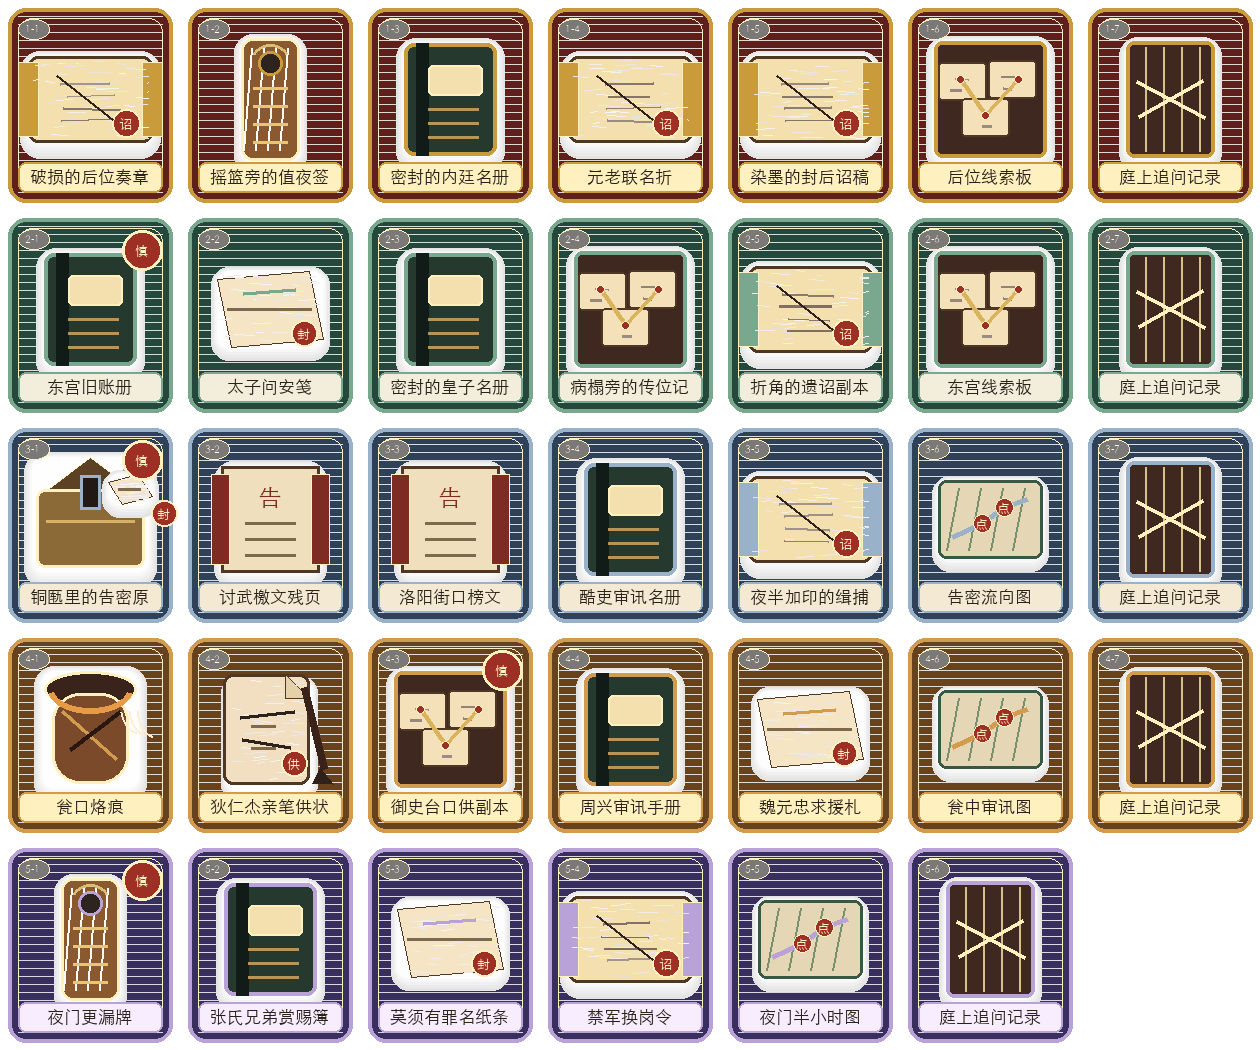
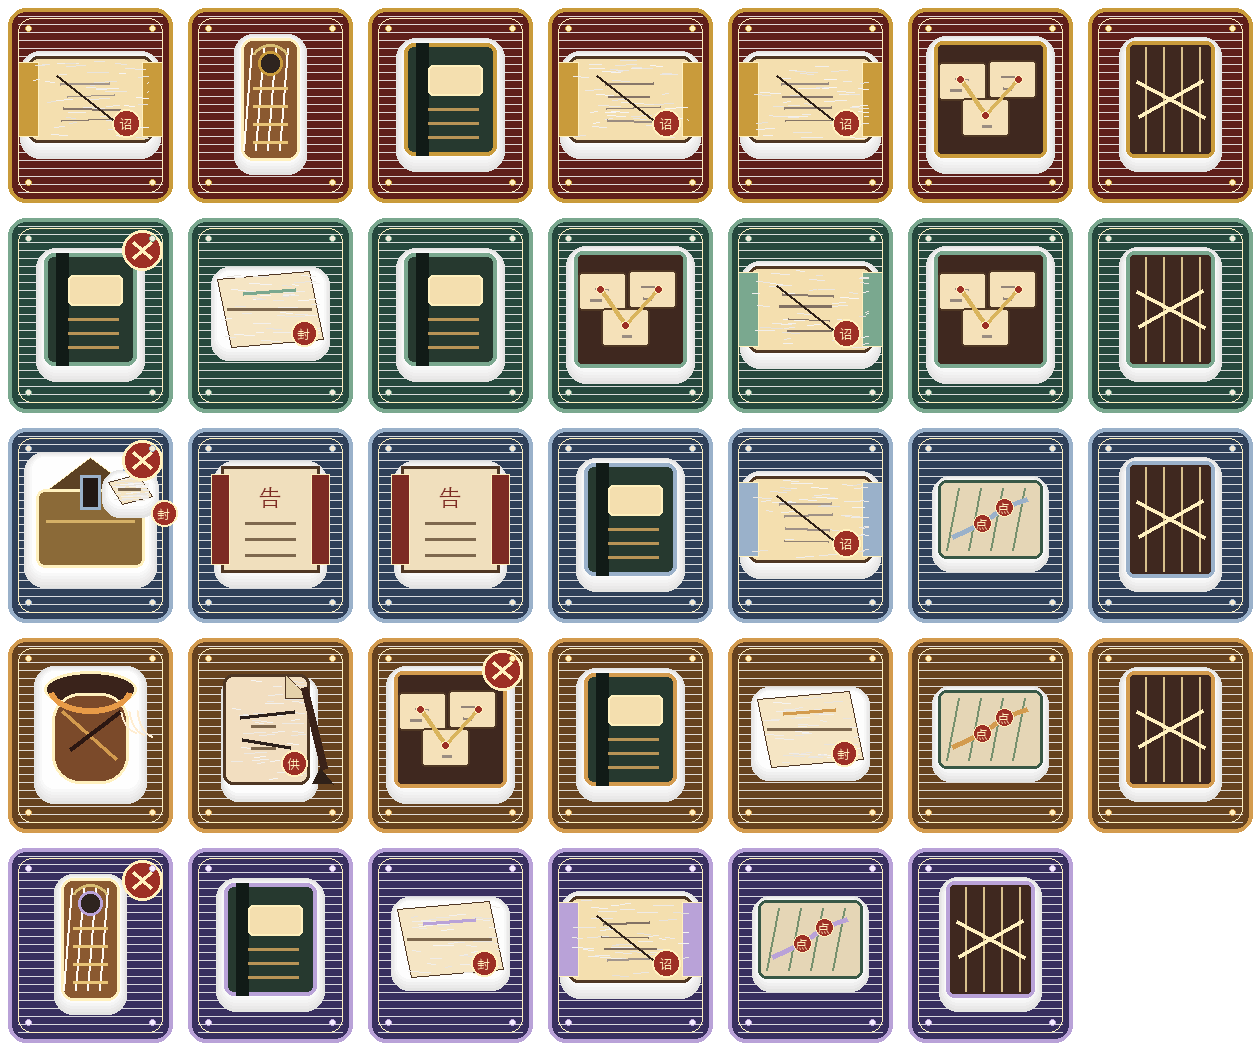
改进证物物品图案位图呈现
本次小步继续缩小与逆转裁判式证物栏的差距，重点解决复杂证物图案仍被文字徽章和标签感压住的问题。

具体改动：

1. 重新生成 evidence-item-sheet-v2.png，去掉格子底部标题牌和角落编号，让缩略图主要由卷轴、签牌、名册、地图板、铜匦、瓮等物件图案承担识别。

2. 扩展证物图生成器，新增发簪与丝带、通行牌、墨砚与笔、布帛碎片等更具体的复杂物件画法，并把风险标记改成非文字封印图案。

3. 已取得证物不再叠加 证/卷/图/札 等文字徽章，避免物品图案被 UI 符号遮挡；未取得证物仍保留小型不可用提示。

4. 为 render_game_to_text 增加 selectedEvidenceArtAsset 与 selectedEvidenceUsesBitmapOnly，方便自动化确认当前证物确实来自 PNG 位图且没有文字徽章覆盖。

5. 更新 progress.md，记录本轮实现、桌面与移动端验证，以及下一步仍需补齐的高价值专属证物图和更深层证物交互。

验证：

- npm run check:js

- PYTHONPYCACHEPREFIX=/Users/oubeichen/Projects/wuzetian2/.pycache npm run check:py

- git diff --check

- npm run qa:web-game（浏览器权限下通过，仍只有外部脚本 module type warning）

- Playwright 桌面 1440x810：取得第一件证物并打开法庭记录，确认 evidence-item-sheet-v2.png 加载、markExists=false、selectedEvidenceUsesBitmapOnly=true、页面无溢出。

- Playwright 手机 390x844：重复记录页检查，确认同一 PNG 位图加载、无文字徽章、横向溢出为 0。

diff --git a/game/app.js b/game/app.js
@@ -2492,14 +2492,14 @@
 
   function evidenceVisualFor(item, owned = true) {
     if (!owned) return { type: "locked", label: "未" };
-    if (!item) return { type: "file", label: "证" };
+    if (!item) return { type: "file", label: "" };
     const name = item.name || "";
     const chapterMatch = name.match(/卷宗(\d+)/);
-    if (item.counterRisk) return { type: "risk", label: "慎" };
-    if (name.includes("收益图")) return { type: "map", label: "图" };
-    if (name.includes("札记") || item.trialOnly) return { type: "note", label: "札" };
-    if (chapterMatch) return { type: "record", label: `卷${chapterMatch[1]}` };
-    return { type: "file", label: "证" };
+    if (item.counterRisk) return { type: "risk", label: "" };
+    if (name.includes("收益图")) return { type: "map", label: "" };
+    if (name.includes("札记") || item.trialOnly) return { type: "note", label: "" };
+    if (chapterMatch) return { type: "record", label: "" };
+    return { type: "file", label: "" };
   }
 
   function evidenceSheetPosition(item, caseData) {
@@ -2518,9 +2518,10 @@
   function renderEvidenceThumb(item, owned, size = "small", caseData = currentCase()) {
     const visual = evidenceVisualFor(item, owned);
     const position = evidenceSheetPosition(item, caseData);
+    const mark = visual.label ? `<span class="evidence-thumb-mark">${escapeHtml(visual.label)}</span>` : "";
     return `
       <span class="evidence-thumb evidence-art evidence-thumb-${escapeHtml(size)} evidence-${escapeHtml(visual.type)}" ${evidenceArtStyle(item, caseData)} data-evidence-art="${position.row}-${position.col}" aria-hidden="true">
-        <span class="evidence-thumb-mark">${escapeHtml(visual.label)}</span>
+        ${mark}
         <span class="evidence-thumb-lines"></span>
       </span>
     `;
@@ -4020,6 +4021,8 @@
       selectedEvidence: selectedEvidence?.name || "",
       selectedEvidenceIcon: selectedEvidenceVisual ? `${selectedEvidenceVisual.type}:${selectedEvidenceVisual.label}` : "",
       selectedEvidenceArt: selectedEvidencePosition ? `${selectedEvidencePosition.row + 1}-${selectedEvidencePosition.col + 1}` : "",
+      selectedEvidenceArtAsset: selectedEvidencePosition ? "evidence-item-sheet-v2.png" : "",
+      selectedEvidenceUsesBitmapOnly: selectedEvidenceVisual ? selectedEvidenceVisual.label === "" : false,
       selectedEvidenceRisk: selectedEvidence?.counterRisk || "",
       selectedProfile: state.selectedProfileName,
       selectedRecordLabel: selectedRecordLabel(caseData),

diff --git a/scripts/generate_evidence_item_sheet.py b/scripts/generate_evidence_item_sheet.py
@@ -52,15 +52,8 @@ def font(size: int, bold: bool = False) -> ImageFont.FreeTypeFont | ImageFont.Im
     return ImageFont.load_default()
 
 
-FONT_TITLE = font(17, True)
 FONT_SMALL = font(13)
 FONT_MARK = font(24, True)
-FONT_TINY = font(10, True)
-
-
-def short_text(text: str, limit: int = 7) -> str:
-    cleaned = re.sub(r"\s+", "", text or "")
-    return cleaned[:limit]
 
 
 def color_mix(a: str, b: str, ratio: float) -> tuple[int, int, int]:
@@ -122,10 +115,14 @@ def visual_kind(item: dict) -> str:
     name = item.get("name", "")
     if "收益图" in name or "图" in name:
         return "map"
+    if "簪" in name or "钗" in name:
+        return "hairpin"
     if "铜匦" in name:
         return "bronze_box"
     if "瓮" in name:
         return "jar"
+    if "通行" in name or "门籍" in name or "门禁" in name:
+        return "gate_pass"
     if "签" in name or "牌" in name:
         return "tally"
     if "名册" in name or "账册" in name or "赏赐簿" in name or "手册" in name:
@@ -142,6 +139,10 @@ def visual_kind(item: dict) -> str:
         return "note"
     if "卷宗" in name:
         return "chapter"
+    if "墨" in name or "笔" in name:
+        return "inkstone"
+    if "布" in name or "帛" in name:
+        return "cloth"
     return "file"
 
 
@@ -297,11 +298,61 @@ def draw_jar(draw: ImageDraw.ImageDraw, center: tuple[int, int], scale: float, a
         draw.arc((cx + 30 + i * 8, cy - 50 - i * 5, cx + 66 + i * 8, cy + 4 + i * 2), 95, 168, fill=(255, 206, 126, 90), width=2)
 
 
+def draw_hairpin(draw: ImageDraw.ImageDraw, center: tuple[int, int], scale: float, accent: str) -> None:
+    cx, cy = center
+    draw_soft_shadow(draw, (cx - 60, cy - 42, cx + 60, cy + 50), 14)
+    draw.line((cx - 48, cy + 30, cx + 34, cy - 34), fill="#f1d889", width=int(8 * scale))
+    draw.line((cx - 40, cy + 39, cx + 42, cy - 24), fill="#9d6d2e", width=int(3 * scale))
+    draw.ellipse((cx + 20, cy - 50, cx + 58, cy - 12), fill=accent, outline="#fff1bf", width=3)
+    draw.ellipse((cx + 30, cy - 40, cx + 48, cy - 22), fill="#fff1bf", outline="#7d2b23", width=2)
+    ribbon = [(cx - 18, cy - 2), (cx - 52, cy + 3), (cx - 28, cy + 20), (cx - 48, cy + 41), (cx - 8, cy + 19)]
+    draw.polygon(ribbon, fill="#7d2b23", outline="#fff1bf")
+    draw.line((cx - 12, cy + 4, cx + 18, cy + 30), fill="#d9b45c", width=3)
+
+
+def draw_gate_pass(draw: ImageDraw.ImageDraw, center: tuple[int, int], scale: float, accent: str) -> None:
+    cx, cy = center
+    tablet = (cx - 42, cy - 58, cx + 42, cy + 58)
+    draw_soft_shadow(draw, tablet, 16)
+    draw.rounded_rectangle(tablet, radius=10, fill="#6d4427", outline="#fff1bf", width=3)
+    draw.ellipse((cx - 11, cy - 47, cx + 11, cy - 25), fill="#1f1714", outline=accent, width=3)
+    draw.arc((cx - 22, cy - 54, cx + 22, cy - 20), 200, 340, fill="#d9b45c", width=3)
+    for y in range(cy - 10, cy + 42, 18):
+        draw.line((cx - 24, y, cx + 24, y), fill="#f4dfaf", width=3)
+    draw_letter(draw, (cx + 42, cy + 25), 0.34, accent)
+
+
+def draw_inkstone(draw: ImageDraw.ImageDraw, center: tuple[int, int], scale: float, accent: str) -> None:
+    cx, cy = center
+    draw_soft_shadow(draw, (cx - 58, cy - 36, cx + 58, cy + 46), 14)
+    draw.rounded_rectangle((cx - 54, cy - 24, cx + 54, cy + 42), radius=18, fill="#211c1b", outline=accent, width=4)
+    draw.ellipse((cx - 30, cy - 11, cx + 20, cy + 27), fill="#312726", outline="#675146", width=2)
+    draw.line((cx - 44, cy + 42, cx + 50, cy - 54), fill="#6b3a1f", width=8)
+    draw.line((cx - 37, cy + 35, cx + 56, cy - 62), fill="#f0d083", width=3)
+    draw.polygon([(cx + 48, cy - 56), (cx + 66, cy - 72), (cx + 58, cy - 45)], fill="#201715", outline="#fff1bf")
+    for dx in (-20, -6, 8):
+        draw.ellipse((cx + dx, cy + 2, cx + dx + 7, cy + 9), fill=(15, 12, 11, 160))
+
+
+def draw_cloth(draw: ImageDraw.ImageDraw, center: tuple[int, int], scale: float, accent: str) -> None:
+    cx, cy = center
+    draw_soft_shadow(draw, (cx - 57, cy - 44, cx + 58, cy + 48), 14)
+    cloth = [(cx - 54, cy - 22), (cx - 18, cy - 44), (cx + 55, cy - 30), (cx + 40, cy + 36), (cx - 32, cy + 48), (cx - 58, cy + 12)]
+    draw.polygon(cloth, fill="#e8dfcb", outline=accent)
+    for offset in (-30, -10, 10, 30):
+        draw.line((cx + offset, cy - 31, cx + offset - 18, cy + 38), fill=(96, 74, 54, 90), width=2)
+    draw.line((cx - 46, cy - 8, cx + 40, cy + 22), fill="#7d2b23", width=5)
+    draw.line((cx - 28, cy + 19, cx + 28, cy - 17), fill="#9d2f25", width=3)
+    draw_stamp(draw, (cx + 26, cy + 22), "封", 0.84)
+
+
 def draw_risk_badge(draw: ImageDraw.ImageDraw, box: tuple[int, int, int, int]) -> None:
     x1, y1, x2, _ = box
     badge = (x2 - 58, y1 + 20, x2 - 18, y1 + 60)
     draw.ellipse(badge, fill="#9d2f25", outline="#fff1bf", width=3)
-    draw.text(((badge[0] + badge[2]) // 2, (badge[1] + badge[3]) // 2 + 1), "慎", fill="#fff1bf", font=FONT_SMALL, anchor="mm")
+    cx, cy = (badge[0] + badge[2]) // 2, (badge[1] + badge[3]) // 2
+    draw.line((cx - 9, cy - 8, cx + 9, cy + 8), fill="#fff1bf", width=3)
+    draw.line((cx + 9, cy - 8, cx - 9, cy + 8), fill="#fff1bf", width=3)
 
 
 def draw_icon(draw: ImageDraw.ImageDraw, item: dict, case_index: int, evidence_index: int, box: tuple[int, int, int, int]) -> None:
@@ -338,15 +389,20 @@ def draw_icon(draw: ImageDraw.ImageDraw, item: dict, case_index: int, evidence_i
         draw_bronze_box(draw, (cx, cy), 1.0, accent)
     elif kind == "jar":
         draw_jar(draw, (cx, cy), 1.0, accent)
+    elif kind == "hairpin":
+        draw_hairpin(draw, (cx, cy), 1.0, accent)
+    elif kind == "gate_pass":
+        draw_gate_pass(draw, (cx, cy), 1.0, accent)
+    elif kind == "inkstone":
+        draw_inkstone(draw, (cx, cy), 1.0, accent)
+    elif kind == "cloth":
+        draw_cloth(draw, (cx, cy), 1.0, accent)
     else:
         draw_seal(draw, (cx, cy), 1.0, accent)
     if item.get("counterRisk"):
         draw_risk_badge(draw, box)
-    label = short_text(item.get("name", "证物"))
-    draw.rounded_rectangle((x1 + 18, y2 - 48, x2 - 18, y2 - 18), radius=8, fill=paper, outline=accent, width=2)
-    draw.text((cx, y2 - 33), label, fill="#2a2119", font=FONT_TITLE, anchor="mm")
-    draw.rounded_rectangle((x1 + 18, y1 + 19, x1 + 49, y1 + 39), radius=999, fill=(31, 28, 25, 150), outline="#fff1bf", width=1)
-    draw.text((x1 + 33, y1 + 29), f"{case_index + 1}-{evidence_index + 1}", fill="#fff8e7", font=FONT_TINY, anchor="mm")
+    for dot_x, dot_y in ((x1 + 28, y1 + 28), (x2 - 28, y1 + 28), (x1 + 28, y2 - 28), (x2 - 28, y2 - 28)):
+        draw.ellipse((dot_x - 3, dot_y - 3, dot_x + 3, dot_y + 3), fill=paper, outline=accent, width=1)
 
 
 def main() -> None: